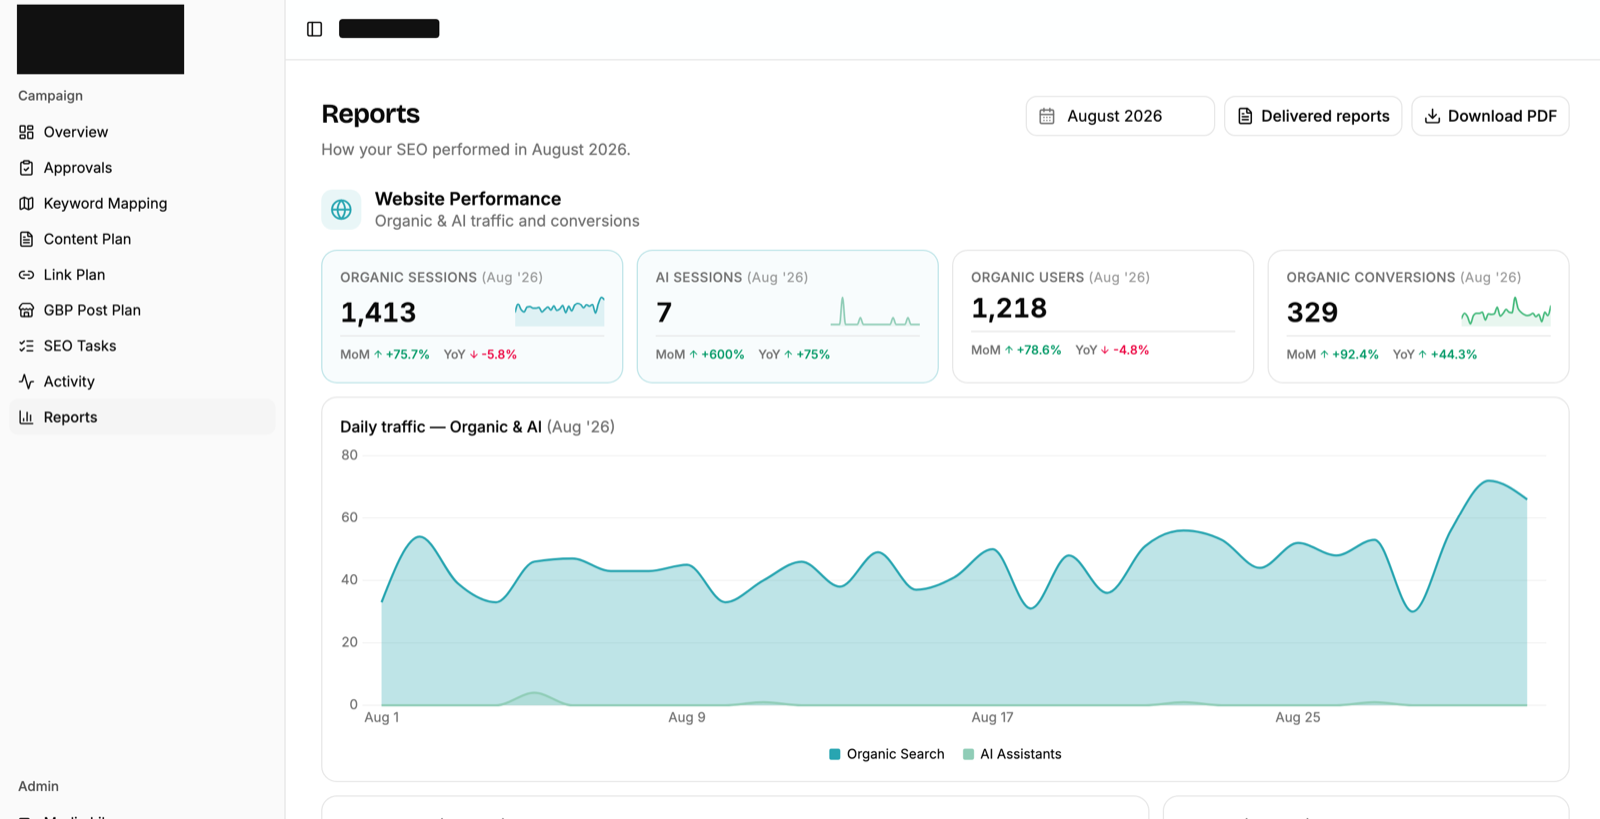
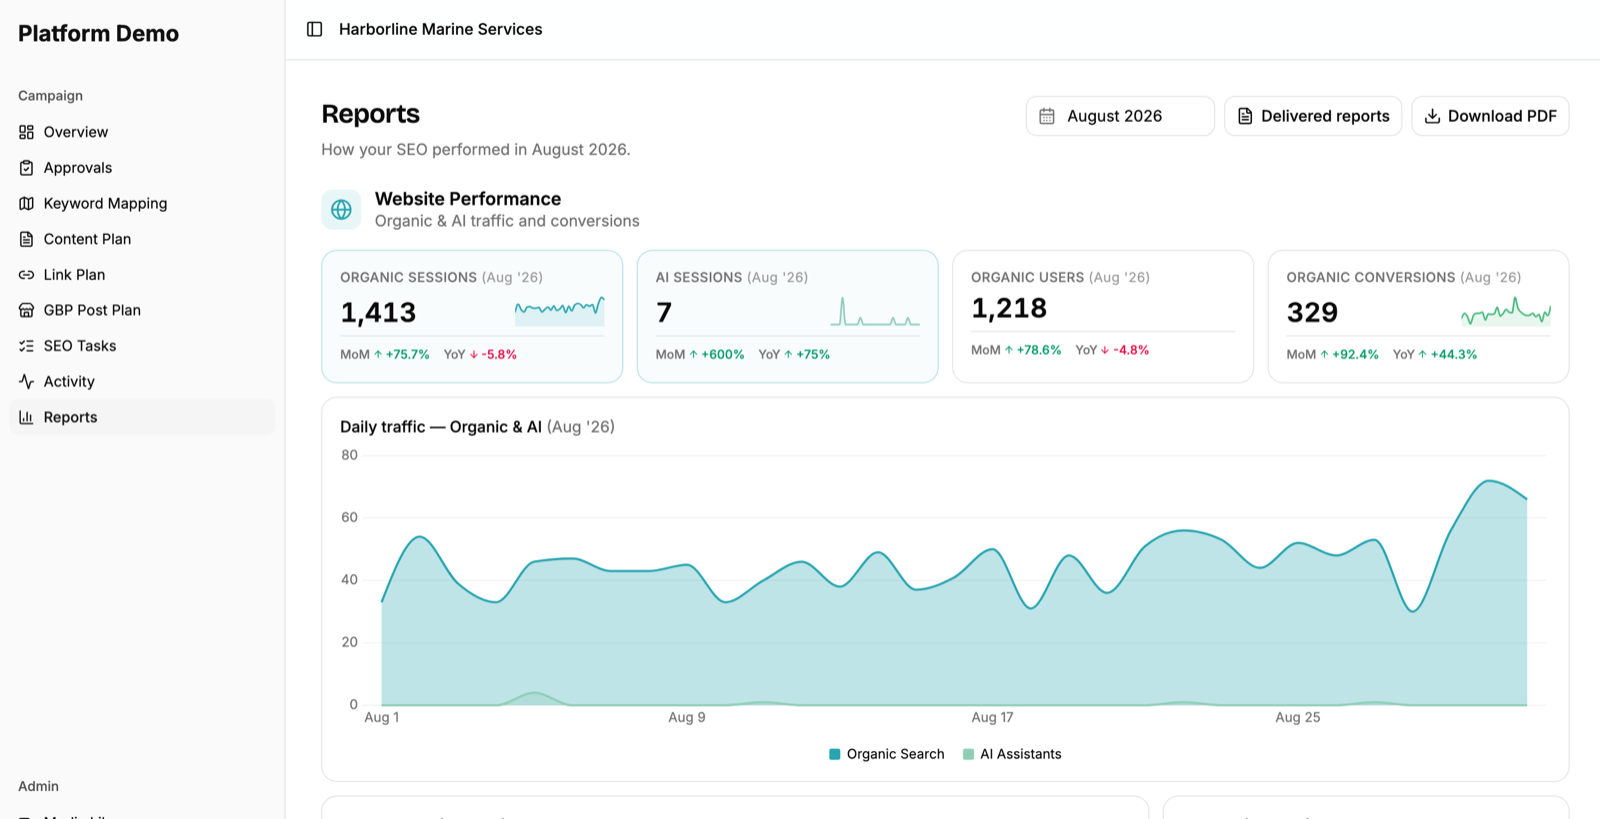
Swap redaction bars for a stand-in nautical demo client in the report figures
Client becomes Harborline Marine Services at example.com, the agency becomes
Platform Demo, and keywords, locations, competitor domains, content and task
titles are replaced with fake marine-services equivalents in the page before
capture, so the figures read naturally instead of showing black bars and blur.

Changed region(s): [[0.0, 0.0, 0.125, 0.0916], [0.1875, 0.0, 0.3438, 0.0611]]

diff --git a/src/content/guides/white-label-seo-reporting.md b/src/content/guides/white-label-seo-reporting.md
@@ -9,7 +9,7 @@ summary: "What a white-label SEO report should contain, what to check before you
 
 The reporting layer is where most white-label SEO partnerships fall apart. Either the report is generic and unconvincing, or it leaks the fulfillment partner's branding everywhere, or it shows the wrong metrics for the person reading it. Each failure produces a different kind of client unhappiness, and all of them undermine the agency's positioning.
 
-This guide covers what white-label SEO reporting is, what should be in the report, what "branded" actually has to mean, how much control you should expect over what each client sees, how the report should reach the client, and the platform options. Where a screenshot makes a point faster than a paragraph, I've used examples from the reporting we run for partner agencies, with client names redacted.
+This guide covers what white-label SEO reporting is, what should be in the report, what "branded" actually has to mean, how much control you should expect over what each client sees, how the report should reach the client, and the platform options. Where a screenshot makes a point faster than a paragraph, I've used examples from the reporting we run for partner agencies, shown with a demo agency and a stand-in client so nothing real is exposed.
 
 ## What white-label SEO reporting is
 
@@ -47,7 +47,7 @@ One addition that has become non-negotiable: traffic from AI assistants as its o
 
 <figure>
 <img src="/images/guides/white-label-seo-reporting/report-website-performance.png" alt="Example Website Performance section of a monthly SEO report: four KPI cards for organic sessions, AI sessions, organic users and organic conversions with month-over-month and year-over-year change, above a daily traffic chart splitting organic search from AI assistants." width="1600" height="867" loading="lazy" />
-<figcaption>Example: the opening section of a monthly report, with AI assistant traffic on its own line next to organic search. Client name redacted.</figcaption>
+<figcaption>Example: the opening section of a monthly report, with AI assistant traffic on its own line next to organic search.</figcaption>
 </figure>
 
 Check what counts as a conversion. The number is only as good as the analytics events behind it, so the platform should let you choose those events per client and keep the list short. A client who sees "conversions" and finds out later it included scroll depth stops trusting the whole report.
@@ -58,7 +58,7 @@ For local businesses this section often matters more than the website one. Total
 
 <figure>
 <img src="/images/guides/white-label-seo-reporting/report-gbp.png" alt="Example Google Business Profile section of a monthly SEO report: KPI cards for total impressions, calls, website clicks and direction requests, above a chart of impressions by surface split across mobile search, desktop search, mobile maps and desktop maps." width="1600" height="1311" loading="lazy" />
-<figcaption>Example: Business Profile visibility and customer actions, broken out by surface, with a per-location table for a six-location business. Location names blurred.</figcaption>
+<figcaption>Example: Business Profile visibility and customer actions, broken out by surface, with a per-location table for a six-location business.</figcaption>
 </figure>
 
 One thing to know: Google's Business Profile performance data trails by roughly a week. A report generated on the first of the month will under-count the last few days. Any platform that schedules PDFs should let you pick a later day of the month for that reason.
@@ -69,7 +69,7 @@ Tracked keyword count, distribution across positions 1 to 3, 4 to 10 and 11 to 2
 
 <figure>
 <img src="/images/guides/white-label-seo-reporting/report-keywords.png" alt="Example Keyword Performance section of a monthly SEO report: KPI cards for tracked keywords and positions 1-3, 4-10 and 11-20, a stacked bar chart of keywords in the top twenty by month, and a table of every keyword with location, current position, change, local pack status and AI Overview status." width="1600" height="1198" loading="lazy" />
-<figcaption>Example: keyword distribution, the top-twenty trend, and the priority keyword table with local pack and AI Overview columns. Keywords and locations blurred.</figcaption>
+<figcaption>Example: keyword distribution, the top-twenty trend, and the priority keyword table with local pack and AI Overview columns.</figcaption>
 </figure>
 
 Report the change, not just the position. A client can't tell whether position seven is good news without knowing it was nineteen last month.
@@ -93,7 +93,7 @@ Content published and links acquired this period, with live URLs. This is often 
 
 <figure>
 <img src="/images/guides/white-label-seo-reporting/report-work-delivered.png" alt="Example Work Delivered section of a monthly SEO report: a list of content published this month with the article title, and a list of links acquired with dates." width="1600" height="331" loading="lazy" />
-<figcaption>Example: content published and links acquired in the month, dated. Article title blurred.</figcaption>
+<figcaption>Example: content published and links acquired in the month, dated.</figcaption>
 </figure>
 
 ### AI visibility
@@ -173,15 +173,15 @@ Three delivery modes cover nearly every client. The thing to check is whether th
 **A monthly PDF, on a schedule.** Generated automatically on a chosen day of the month, emailed from the agency's own address with the PDF attached, to every contact on the client. The subject line should read "Your August SEO report," not "Report #4471 from [vendor]." Look for the option to send the PDF to the agency's own team first, so the account manager can review it and forward it with a note. Every generated PDF should land in a saved list for both the agency and the client.
 
 <figure>
-<img src="/images/guides/white-label-seo-reporting/pdf-cover-and-page.png" alt="Example of two pages of a white-label SEO report PDF side by side: a cover page with the agency name at the top, the title SEO Performance Report, the client name, the month, a linked contents list, and Prepared by the agency at the bottom; and the Website Performance page with KPI cards and charts." width="1600" height="1176" loading="lazy" />
-<figcaption>Example PDF: the cover carries the agency logo, a linked contents list, and "Prepared by" the agency. Each section starts on its own page. Agency and client names redacted.</figcaption>
+<img src="/images/guides/white-label-seo-reporting/pdf-cover-and-page.png" alt="Example of two pages of a white-label SEO report PDF side by side: a cover page with the agency name at the top, the title SEO Performance Report, the client name, the month, a linked contents list, and Prepared by the agency at the bottom; and the Website Performance page with KPI cards and charts." width="1600" height="1037" loading="lazy" />
+<figcaption>Example PDF: the cover carries the agency name, a linked contents list, and "Prepared by" the agency. Each section starts on its own page.</figcaption>
 </figure>
 
 **A live portal.** The same report on the client's own login, with a period picker. Monthly by default, and a quarterly view for the clients who prefer to zoom out. A download button for the client who wants to forward the PDF internally.
 
 <figure>
 <img src="/images/guides/white-label-seo-reporting/portal-reports.png" alt="Example Reports page inside a branded client portal, with the agency name in the sidebar, a period picker, buttons for delivered reports and download PDF, and the Website Performance section of the report." width="1600" height="819" loading="lazy" />
-<figcaption>Example: what the client sees when they log in. Same report, the agency's logo in the sidebar (redacted here), period picker, PDF download.</figcaption>
+<figcaption>Example: what the client sees when they log in. Same report, the agency's name in the sidebar, period picker, PDF download.</figcaption>
 </figure>
 
 **A public link or embed.** Some clients won't log in to anything. A tokenized link that opens the whole portal on one page with no login, optionally behind an email prompt, and can be embedded in another tool the agency already uses with the client. The agency should be able to rotate or turn off the link at any time.
